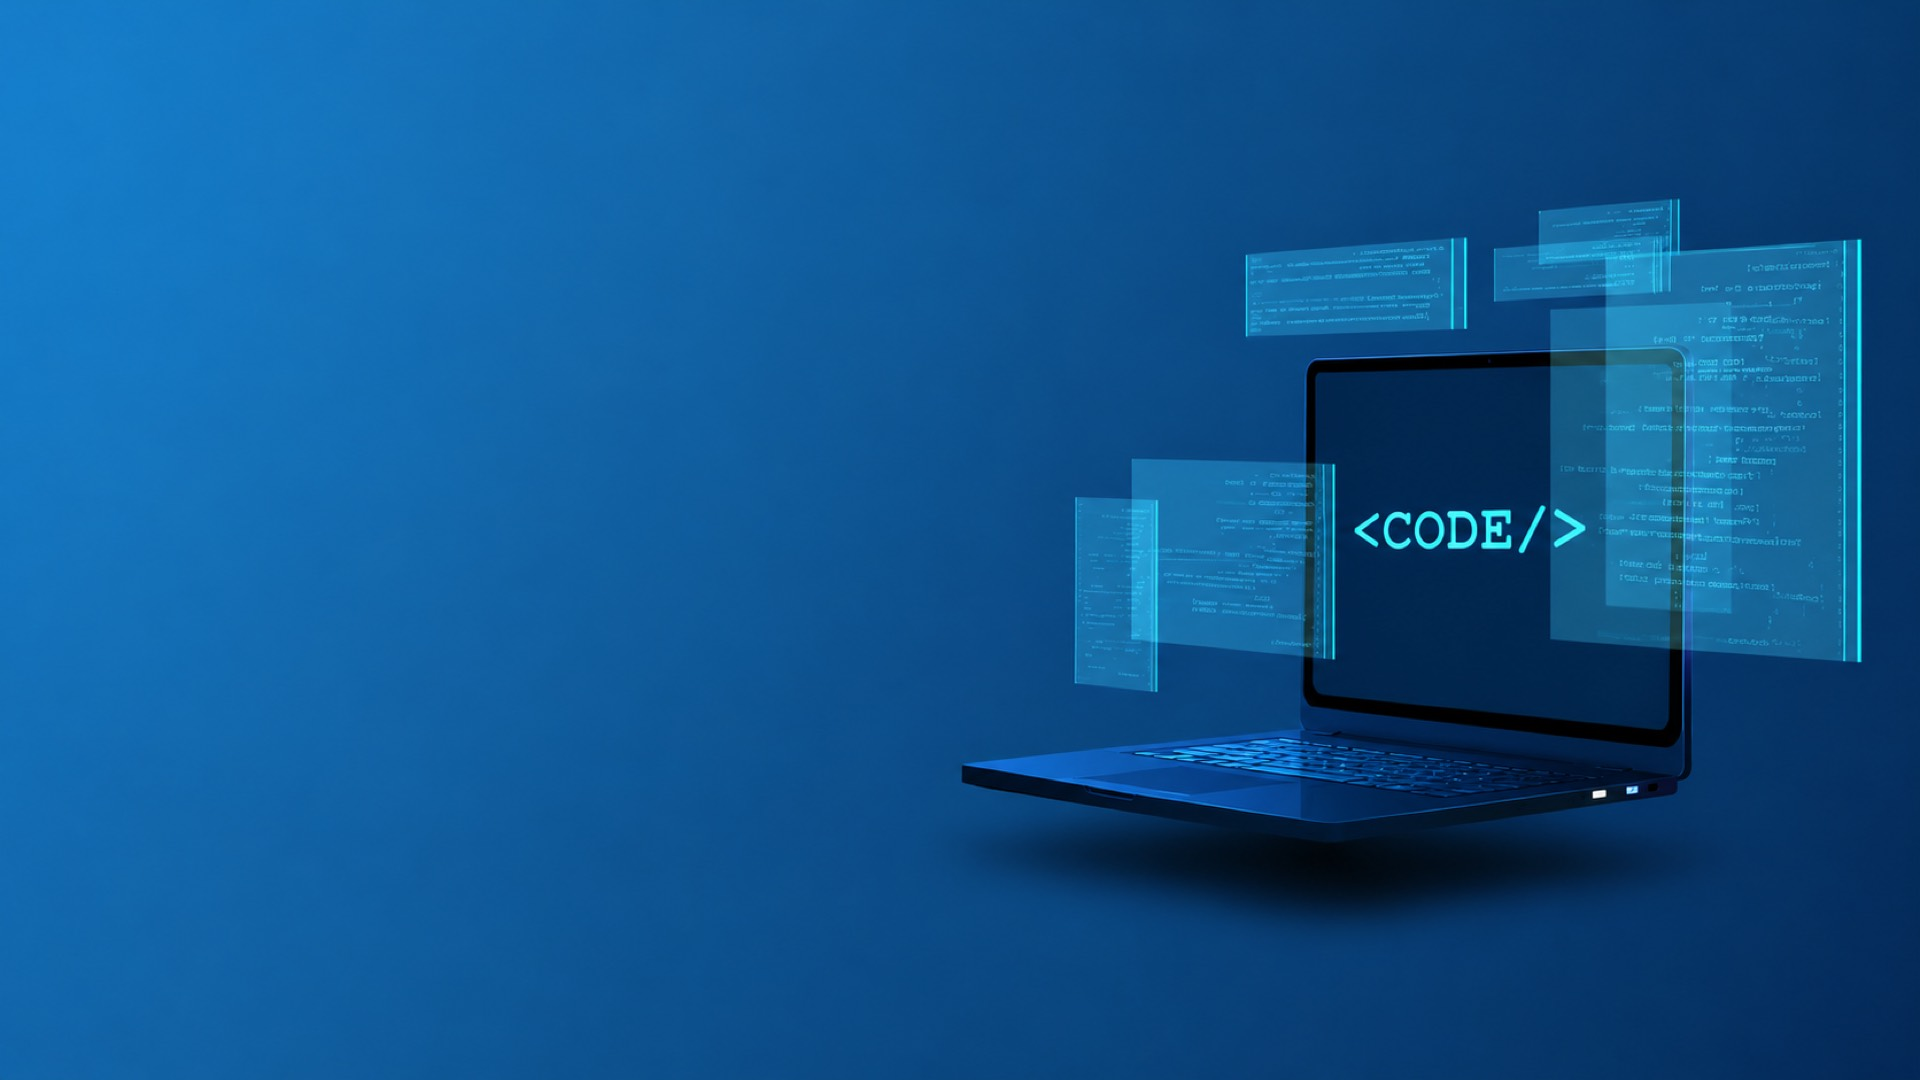
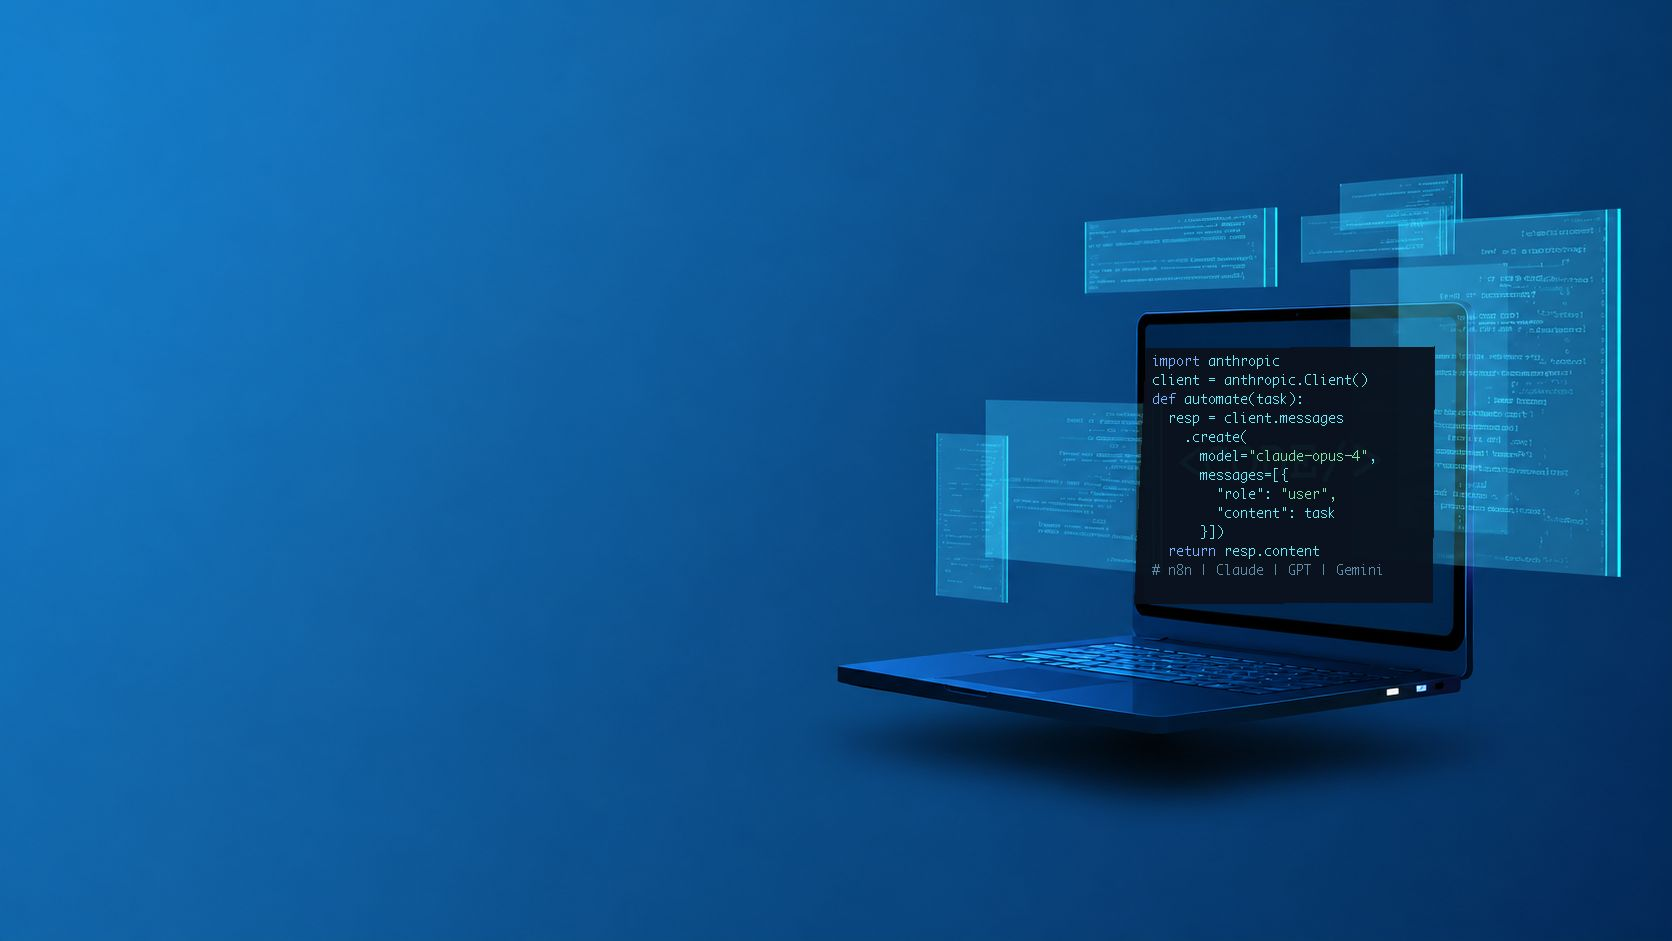
Show code inside laptop on hero; add AI Automation content

Changed region(s): [[0.6531, 0.3698, 0.8708, 0.6472], [0.622, 0.678, 0.6531, 0.7088]]

diff --git a/index.html b/index.html
@@ -46,6 +46,29 @@
     </div>
   </section>
 
+  <section>
+    <div class="container">
+      <div class="section-head">
+        <p class="eyebrow">AI Automation</p>
+        <h2>We put <span class="blue">AI to work</span> for your business.</h2>
+        <p>Beyond building software, we design AI-powered automations that cut manual work, speed up decisions, and scale your operations — using the most capable models and tools available today.</p>
+      </div>
+      <div class="grid grid-3">
+        <div class="card"><h3>AI Agents & Chatbots</h3><p>Custom assistants that answer questions, handle support, and act on your data around the clock.</p></div>
+        <div class="card"><h3>Workflow Automation</h3><p>Connect your apps and automate repetitive tasks end-to-end with no-code and custom pipelines.</p></div>
+        <div class="card"><h3>Document & Data Processing</h3><p>Extract, summarize, and analyse documents, emails, and reports automatically — no manual effort.</p></div>
+      </div>
+      <p class="dim" style="margin:26px 0 12px;">Powered by the tools we work with every day:</p>
+      <div class="tags">
+        <span class="tag">Claude AI</span>
+        <span class="tag">ChatGPT</span>
+        <span class="tag">Gemini</span>
+        <span class="tag">Cursor</span>
+        <span class="tag">n8n</span>
+      </div>
+    </div>
+  </section>
+
   <section id="contact">
     <div class="container">
       <p class="eyebrow">Get in touch</p>
@@ -62,7 +85,7 @@
     <div class="container">
       <div class="foot-grid">
         <div><a href="index.html" class="logo">SRA<span>TECH</span> <span class="dot">•</span></a><p class="dim" style="margin-top:14px;">Built to scale. Engineered to last.</p></div>
-        <div><h4>Services</h4><ul><li><a href="services.html">Web Development</a></li><li><a href="services.html">Mobile Apps</a></li><li><a href="services.html">Cloud & DevOps</a></li><li><a href="services.html">IT Consulting</a></li></ul></div>
+        <div><h4>Services</h4><ul><li><a href="services.html">Web Development</a></li><li><a href="services.html">Mobile Apps</a></li><li><a href="services.html">Cloud & DevOps</a></li><li><a href="services.html">AI Automation</a></li><li><a href="services.html">IT Consulting</a></li></ul></div>
         <div><h4>Company</h4><ul><li><a href="about.html">About</a></li><li><a href="portfolio.html">Portfolio</a></li><li><a href="#contact">Contact</a></li></ul></div>
       </div>
       <div class="foot-bottom">© 2026 SRATECH. All rights reserved.</div>

diff --git a/services.html b/services.html
@@ -37,6 +37,7 @@
         <div class="card"><span class="num">04</span><h3>IT Consulting & Support</h3><p>Strategic technology guidance and reliable ongoing support to keep you moving.</p><div class="tags"><span class="tag">Strategy</span><span class="tag">Audits</span><span class="tag">Security</span></div></div>
         <div class="card"><span class="num">05</span><h3>UI/UX Design</h3><p>User-centered design that turns complex workflows into intuitive, beautiful interfaces.</p><div class="tags"><span class="tag">Figma</span><span class="tag">Prototyping</span><span class="tag">Design Systems</span></div></div>
         <div class="card"><span class="num">06</span><h3>Maintenance & Support</h3><p>Proactive maintenance, updates, and dedicated support so your systems always run smoothly.</p><div class="tags"><span class="tag">SLA</span><span class="tag">Monitoring</span><span class="tag">Updates</span></div></div>
+        <div class="card"><span class="num">07</span><h3>AI Automation & Agents</h3><p>AI chatbots, intelligent agents, and end-to-end workflow automation that cut manual work and scale your operations.</p><div class="tags"><span class="tag">Claude AI</span><span class="tag">ChatGPT</span><span class="tag">Gemini</span><span class="tag">Cursor</span><span class="tag">n8n</span></div></div>
       </div>
     </div>
   </section>